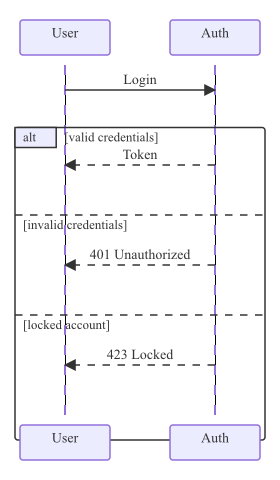
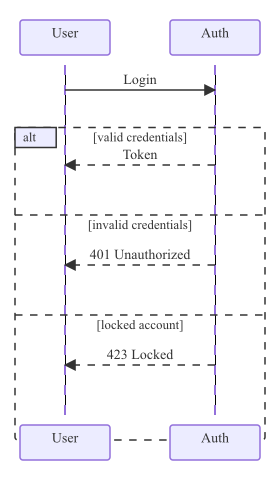
sequence: Q1+Q2 dashed block borders, centered bracket labels (#122)
Visual parity with mmdc:
- Block (alt/loop/par/opt/critical) borders now use stroke-dasharray
  matching mmdc's flow-control region styling. Rect blocks keep
  solid stroke since they carry a fill.
- Block bracket labels (b.Label and b.Branches[i].Label) now
  center-anchor at the block's horizontal midpoint instead of
  left-anchoring next to the kind tab.

Refreshes 10 example snapshots.

diff --git a/pkg/renderer/sequence/renderer_test.go b/pkg/renderer/sequence/renderer_test.go
@@ -808,6 +808,78 @@ func TestRenderNestedActivationsOffsetByDepth(t *testing.T) {
 	assertValidSVG(t, out)
 }
 
+func TestRenderBlockBordersAreDashed(t *testing.T) {
+	d := &diagram.SequenceDiagram{
+		Participants: []diagram.Participant{
+			{ID: "A", Kind: diagram.ParticipantKindParticipant, CreatedAtItem: -1, DestroyedAtItem: -1},
+			{ID: "B", Kind: diagram.ParticipantKindParticipant, CreatedAtItem: -1, DestroyedAtItem: -1},
+		},
+		Items: []diagram.SequenceItem{
+			diagram.NewBlockItem(diagram.Block{
+				Kind:  diagram.BlockKindLoop,
+				Label: "until done",
+				Items: []diagram.SequenceItem{
+					diagram.NewMessageItem(diagram.Message{From: "A", To: "B", Label: "ping", ArrowType: diagram.ArrowTypeSolid}),
+				},
+			}),
+		},
+	}
+	out, err := Render(d, nil)
+	if err != nil {
+		t.Fatalf("Render: %v", err)
+	}
+	raw := string(out)
+	// The block border rect (fill:none) must have a stroke-dasharray.
+	re := regexp.MustCompile(`<rect [^>]*style="fill:none;stroke:[^"]*"`)
+	m := re.FindString(raw)
+	if m == "" {
+		t.Fatal("did not find block-border rect")
+	}
+	if !strings.Contains(m, "stroke-dasharray") {
+		t.Errorf("block-border rect should have stroke-dasharray for parity with mmdc; got: %s", m)
+	}
+}
+
+func TestRenderBranchLabelsCentered(t *testing.T) {
+	d := &diagram.SequenceDiagram{
+		Participants: []diagram.Participant{
+			{ID: "A", Kind: diagram.ParticipantKindParticipant, CreatedAtItem: -1, DestroyedAtItem: -1},
+			{ID: "B", Kind: diagram.ParticipantKindParticipant, CreatedAtItem: -1, DestroyedAtItem: -1},
+		},
+		Items: []diagram.SequenceItem{
+			diagram.NewBlockItem(diagram.Block{
+				Kind:  diagram.BlockKindAlt,
+				Label: "MAIN",
+				Items: []diagram.SequenceItem{
+					diagram.NewMessageItem(diagram.Message{From: "A", To: "B", Label: "m1", ArrowType: diagram.ArrowTypeSolid}),
+				},
+				Branches: []diagram.Block{{
+					Kind:  diagram.BlockKindAlt,
+					Label: "ELSE_BR",
+					Items: []diagram.SequenceItem{
+						diagram.NewMessageItem(diagram.Message{From: "A", To: "B", Label: "m2", ArrowType: diagram.ArrowTypeDashed}),
+					},
+				}},
+			}),
+		},
+	}
+	out, err := Render(d, nil)
+	if err != nil {
+		t.Fatalf("Render: %v", err)
+	}
+	raw := string(out)
+	re := regexp.MustCompile(`<text[^>]*text-anchor="(\w+)"[^>]*>(\[(?:MAIN|ELSE_BR)\])</text>`)
+	matches := re.FindAllStringSubmatch(raw, -1)
+	if len(matches) < 2 {
+		t.Fatalf("expected both bracket labels in SVG, found %d: %v", len(matches), matches)
+	}
+	for _, m := range matches {
+		if m[1] != "middle" {
+			t.Errorf("bracket label %s should be center-anchored, got text-anchor=%q", m[2], m[1])
+		}
+	}
+}
+
 func TestRenderRectWithLabelSuppressesBadge(t *testing.T) {
 	d := &diagram.SequenceDiagram{
 		Participants: []diagram.Participant{

diff --git a/pkg/renderer/sequence/messages.go b/pkg/renderer/sequence/messages.go
@@ -318,7 +318,10 @@ func (mr *messageRenderer) renderBlock(b diagram.Block, depth int) []any {
 		w = mr.lay.width - 2*x
 	}
 
-	blockStyle := fmt.Sprintf("fill:none;stroke:%s;stroke-width:%.1f", mr.th.MessageStroke, defaultStrokeWidth)
+	// Non-rect blocks render with a dashed border for mmdc parity;
+	// rect uses solid since it carries a fill that should read as a
+	// distinct shape, not a flow-control region.
+	blockStyle := fmt.Sprintf("fill:none;stroke:%s;stroke-width:%.1f;stroke-dasharray:5,5", mr.th.MessageStroke, defaultStrokeWidth)
 	if b.Kind == diagram.BlockKindRect && b.Fill != "" {
 		blockStyle = fillStyleWithOpacity(b.Fill, mr.th.MessageStroke, b.HasAlpha, defaultBlockFillOpacity)
 	}
@@ -356,9 +359,9 @@ func (mr *messageRenderer) renderBlock(b diagram.Block, depth int) []any {
 
 		if b.Label != "" {
 			elems = append(elems, &text{
-				X:      svgFloat(x + kindLabelW + 3*notePad),
+				X:      svgFloat(x + w/2),
 				Y:      svgFloat(startY - defaultRowHeight/4 + 14),
-				Anchor: "start", Dominant: "auto",
+				Anchor: "middle", Dominant: "auto",
 				Style:   mr.msgTextSmallStyle,
 				Content: "[" + b.Label + "]",
 			})
@@ -373,8 +376,8 @@ func (mr *messageRenderer) renderBlock(b diagram.Block, depth int) []any {
 		})
 		if i < len(b.Branches) && b.Branches[i].Label != "" {
 			elems = append(elems, &text{
-				X: svgFloat(x + notePad), Y: svgFloat(brY + 14),
-				Anchor: "start", Dominant: "auto",
+				X: svgFloat(x + w/2), Y: svgFloat(brY + 14),
+				Anchor: "middle", Dominant: "auto",
 				Style:   mr.msgTextSmallStyle,
 				Content: "[" + b.Branches[i].Label + "]",
 			})
